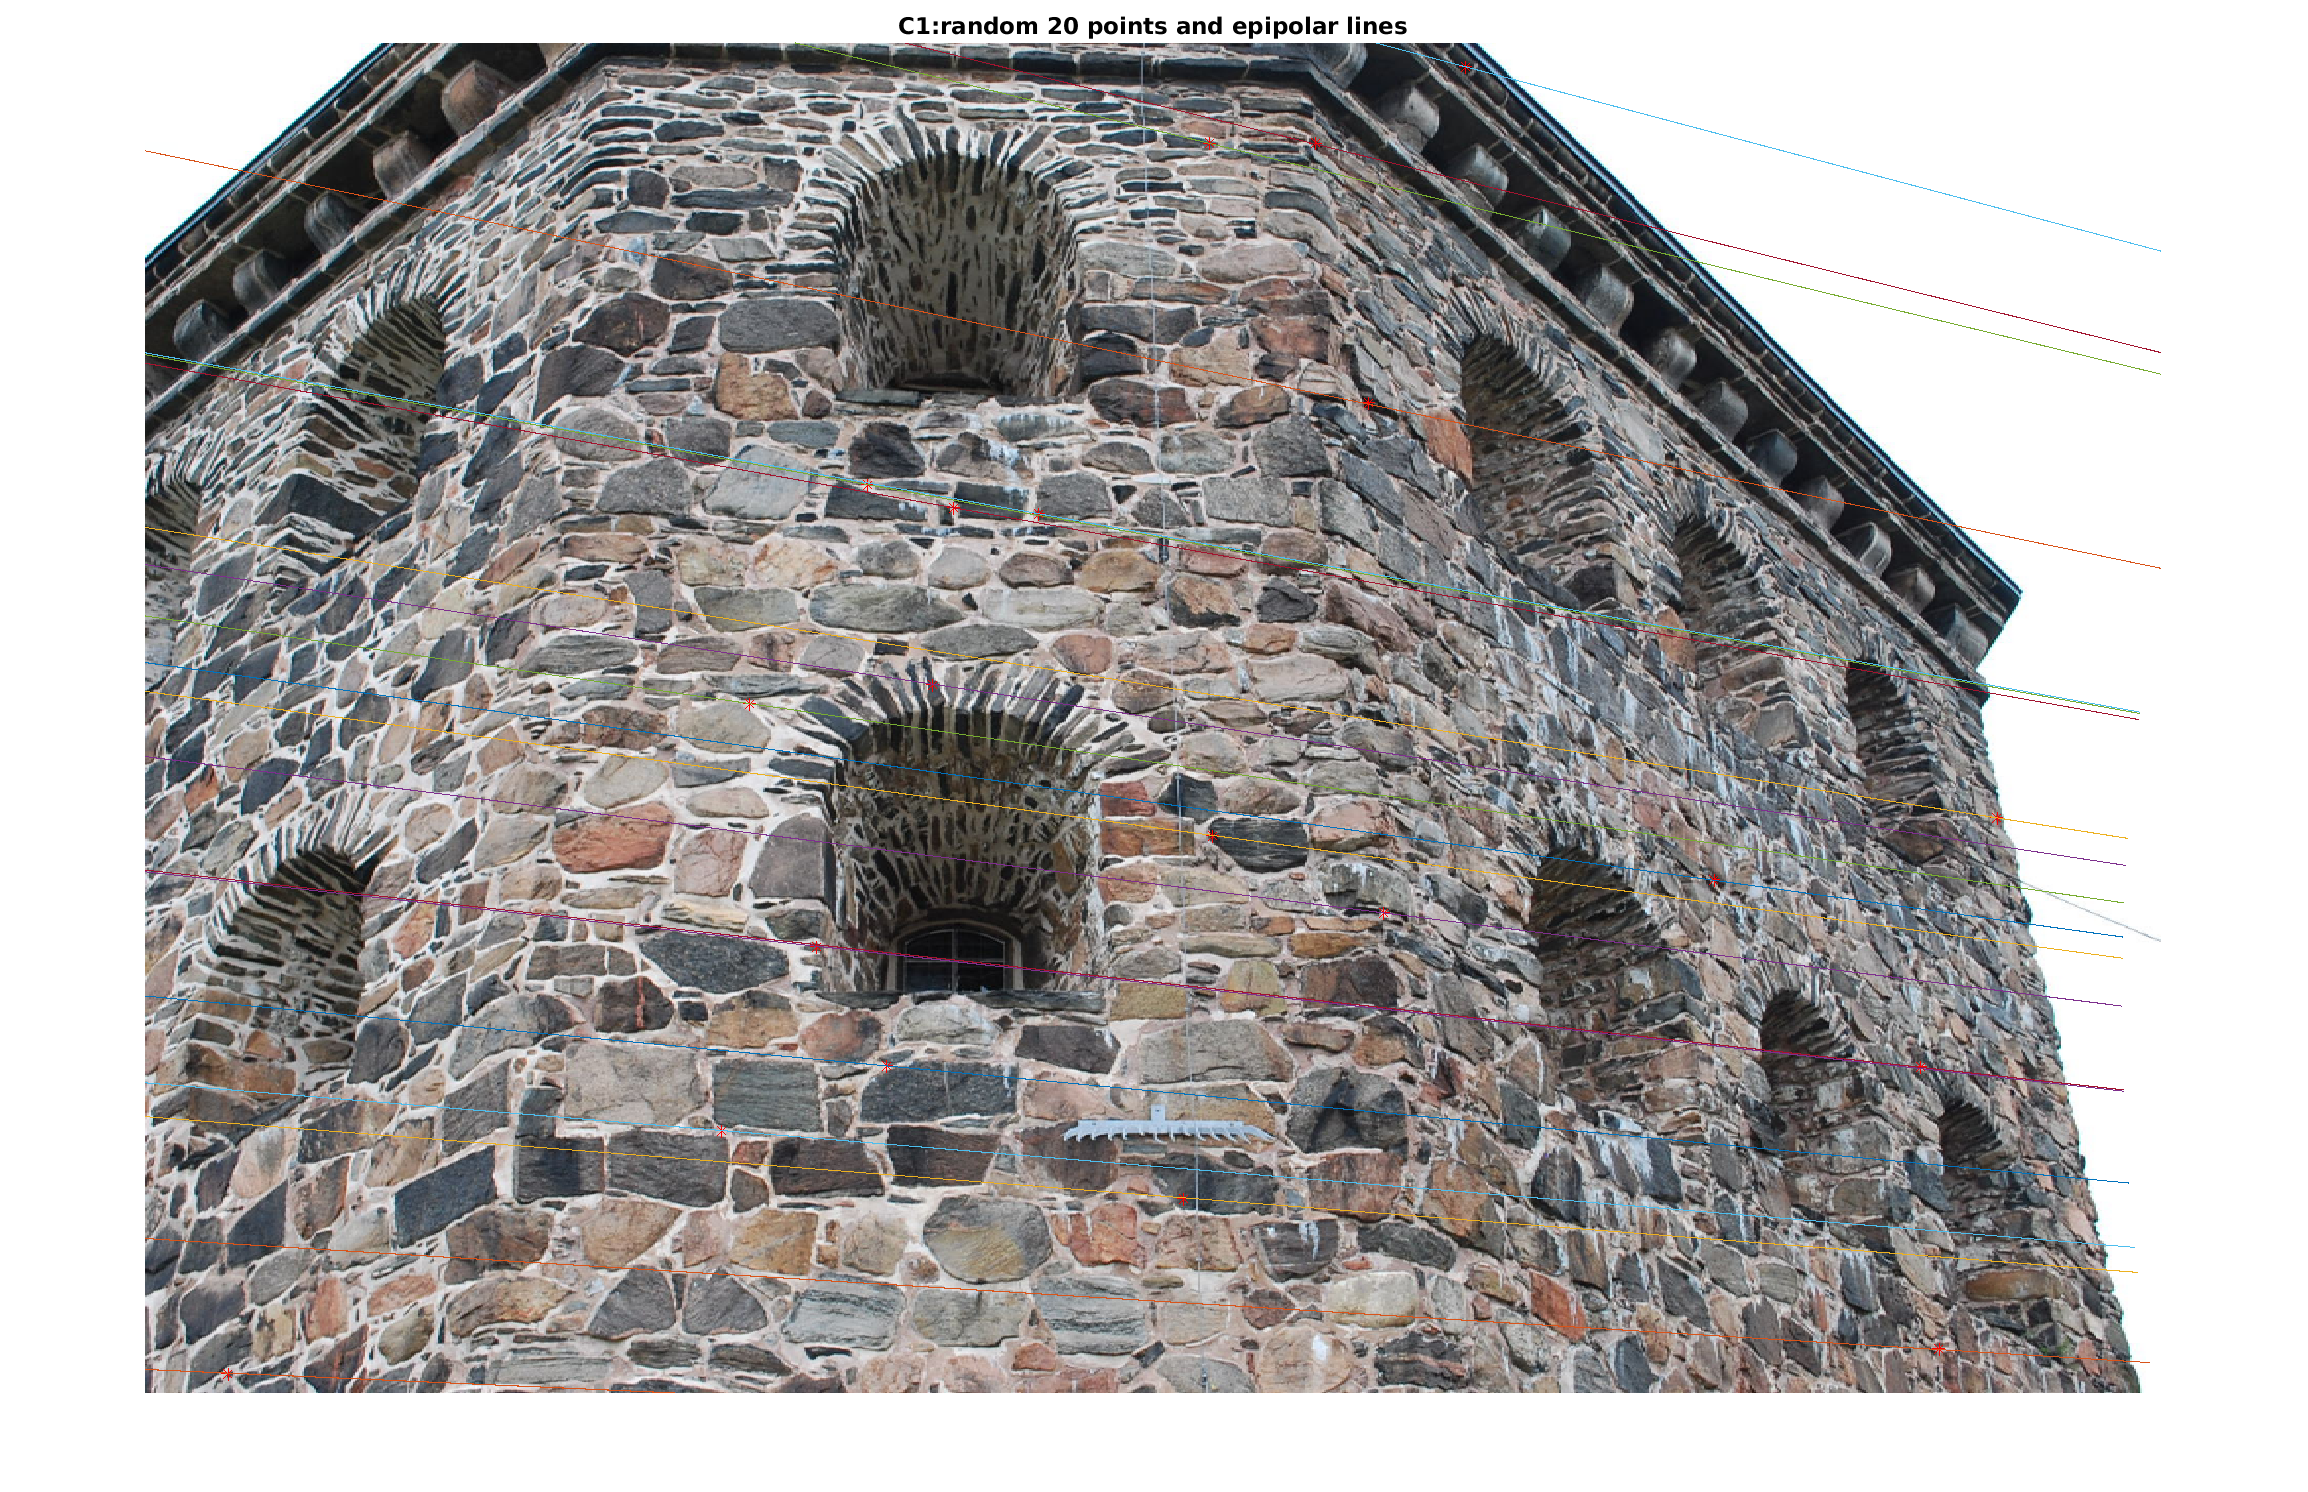
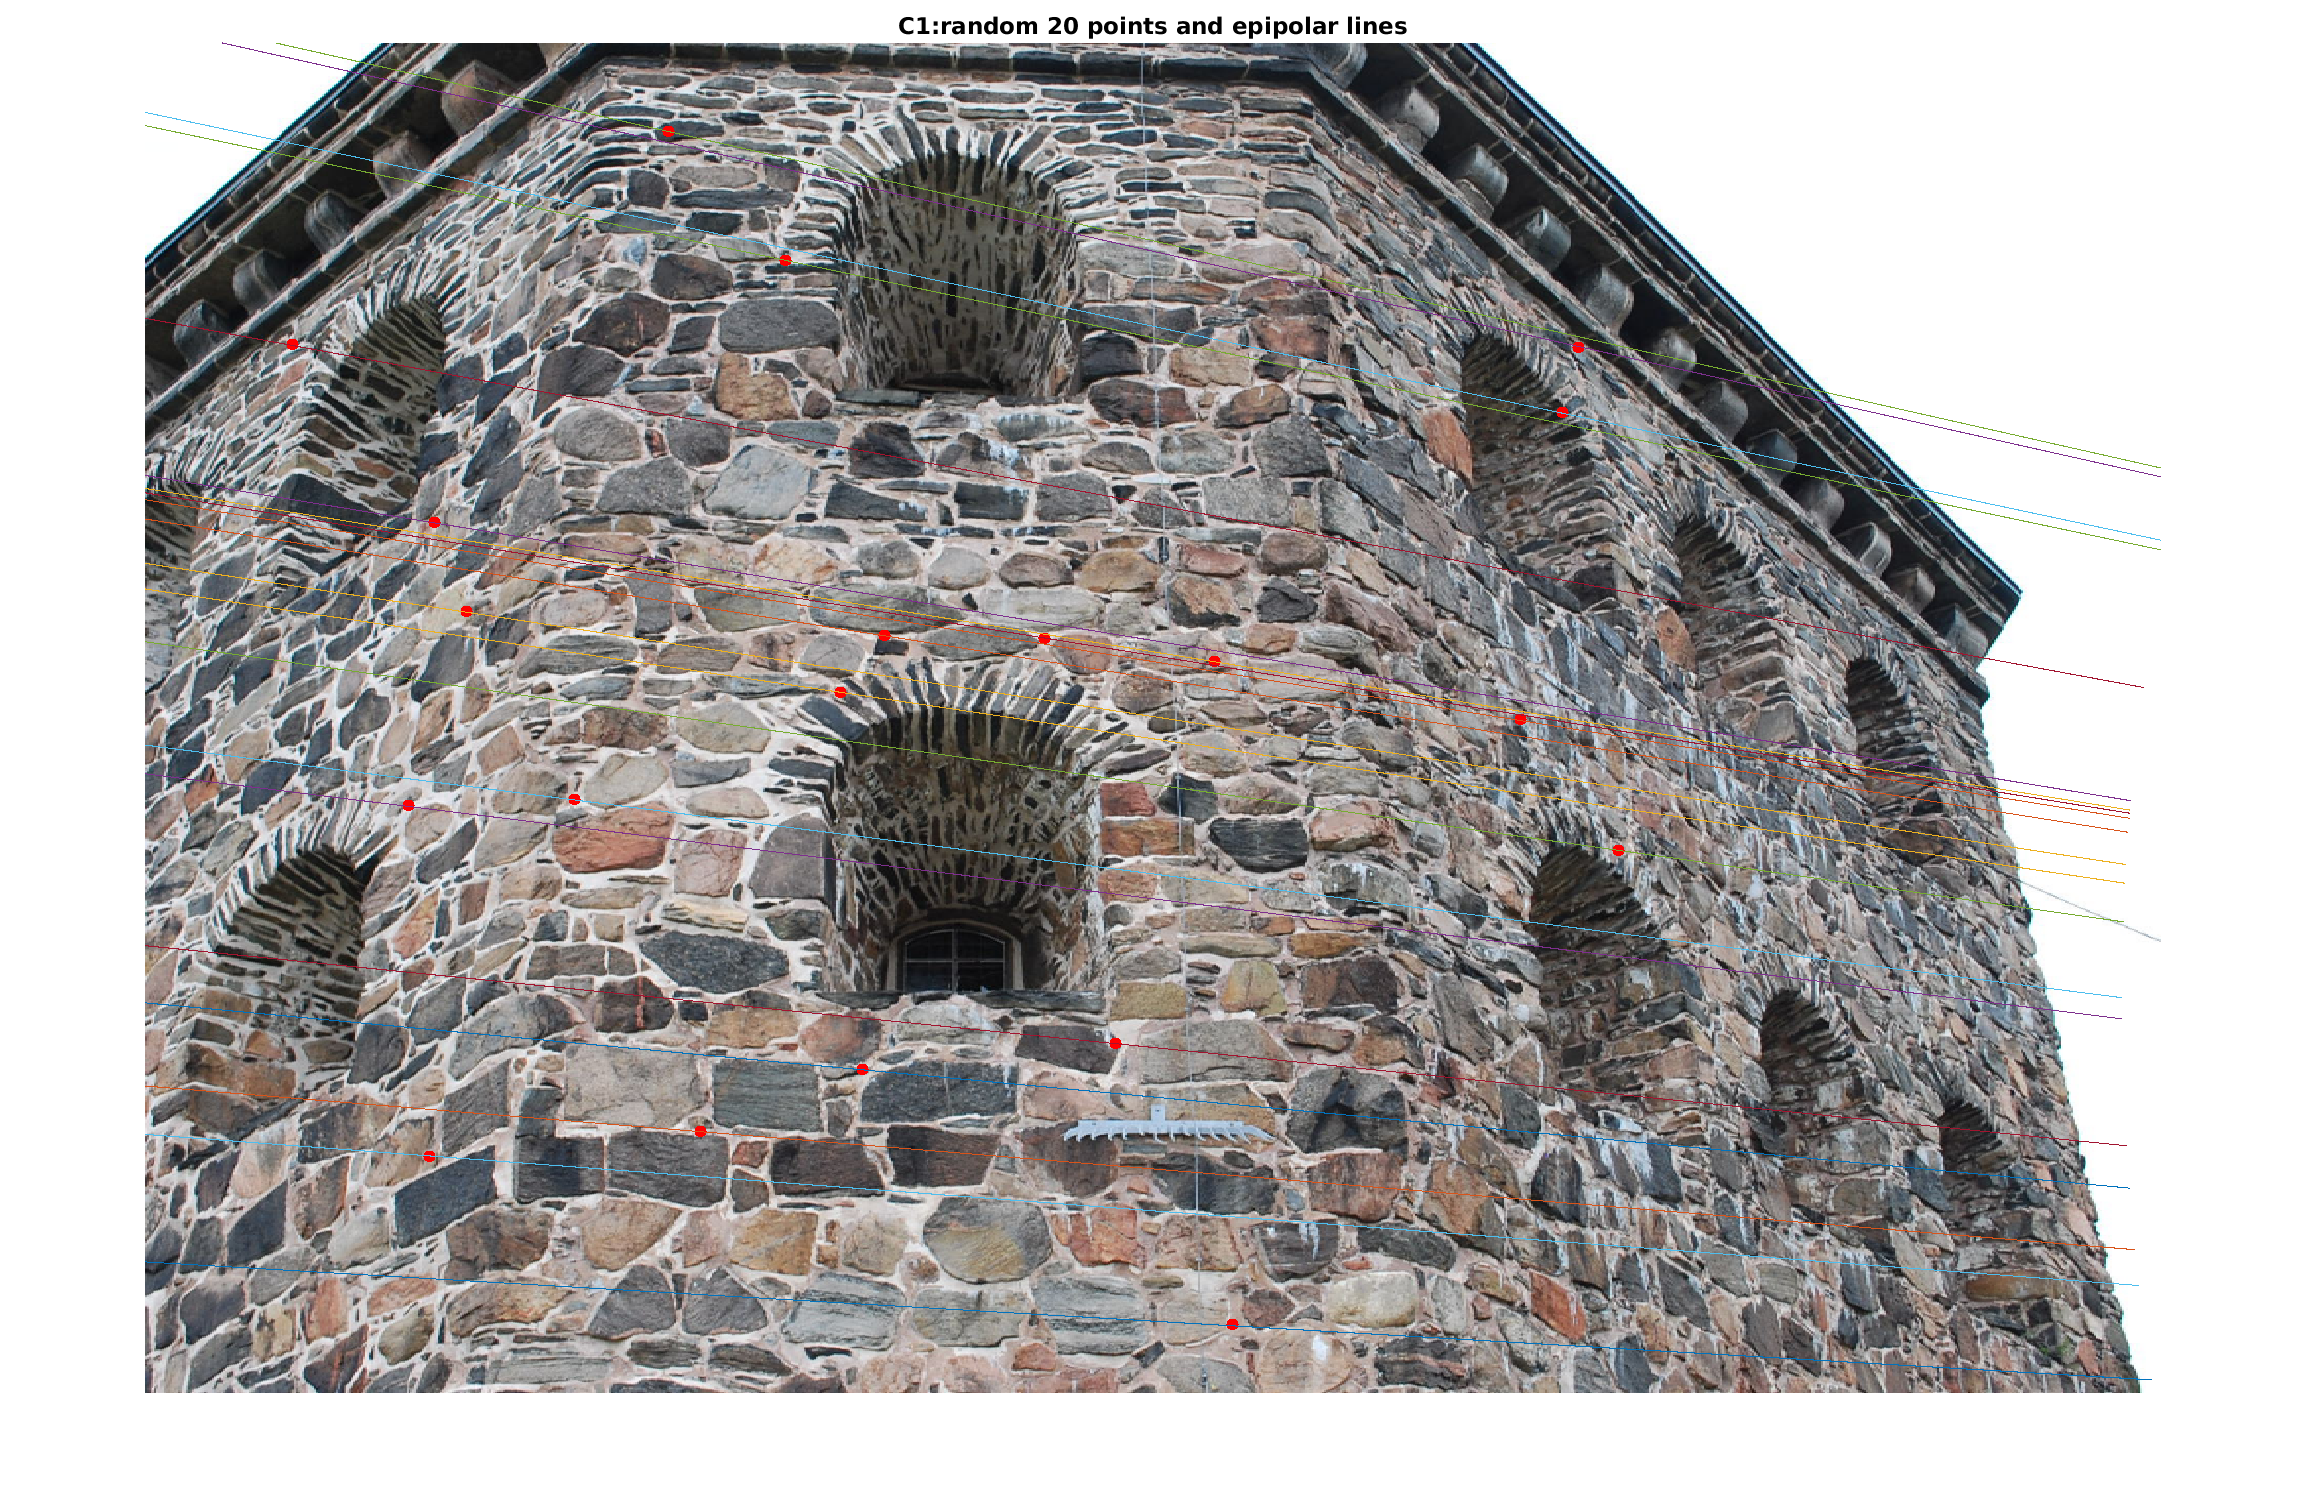
update plot result

diff --git a/assignment/A3/run1.m b/assignment/A3/run1.m
@@ -13,16 +13,16 @@ img_2 = imread('data/kronan2.JPG');
 
 % with normalization
 % % Part 1 start 
-% N_1 = buildN(x{1})
-% N_2 = buildN(x{2})
-% flag_str = ""
+N_1 = buildN(x{1})
+N_2 = buildN(x{2})
+flag_str = ""
 % Part 1 end
 
 % without normalization
 % Part 2 start 
-N_1 = [1 0 0; 0 1 0; 0 0 1];
-N_2 = [1 0 0; 0 1 0; 0 0 1];
-flag_str = "-P2"
+% N_1 = [1 0 0; 0 1 0; 0 0 1];
+% N_2 = [1 0 0; 0 1 0; 0 0 1];
+% flag_str = "-P2"
 % Part 2 end
 
 % normalize x with N1 and N2
@@ -64,7 +64,8 @@ l = F*x{1};
 random_index = randperm(size(x{2},2),20);
 imshow(img_2)
 hold on
-plot(x{2}(1,random_index),x{2}(2,random_index), '*', 'Color','r');
+plot(x{2}(1,random_index),x{2}(2,random_index), ...
+    '.', 'Color','r', 'MarkerSize',20);
 rital(l(:,random_index));
 hold off
 title("C1:random 20 points and epipolar lines" + flag_str);

diff --git a/assignment/A3/run2.m b/assignment/A3/run2.m
@@ -15,10 +15,6 @@ img_2 = imread('data/kronan2.JPG');
 N_1 = inv(K)
 N_2 = inv(K)
 
-% N_1 = buildN(x{1})
-% N_2 = buildN(x{2})
-
-
 % 
 % % normalize x with N1 and N2
 x_1_n = N_1 * x{1};
@@ -59,7 +55,8 @@ l = F*x{1};
 random_index = randperm(size(x{2},2),20);
 imshow(img_2)
 hold on
-plot(x{2}(1,random_index),x{2}(2,random_index), '*', 'Color','r');
+plot(x{2}(1,random_index),x{2}(2,random_index), ...
+    '.', 'Color','r', 'MarkerSize',20);
 rital(l(:,random_index));
 hold off
 title("C2:random 20 points and epipolar lines");
